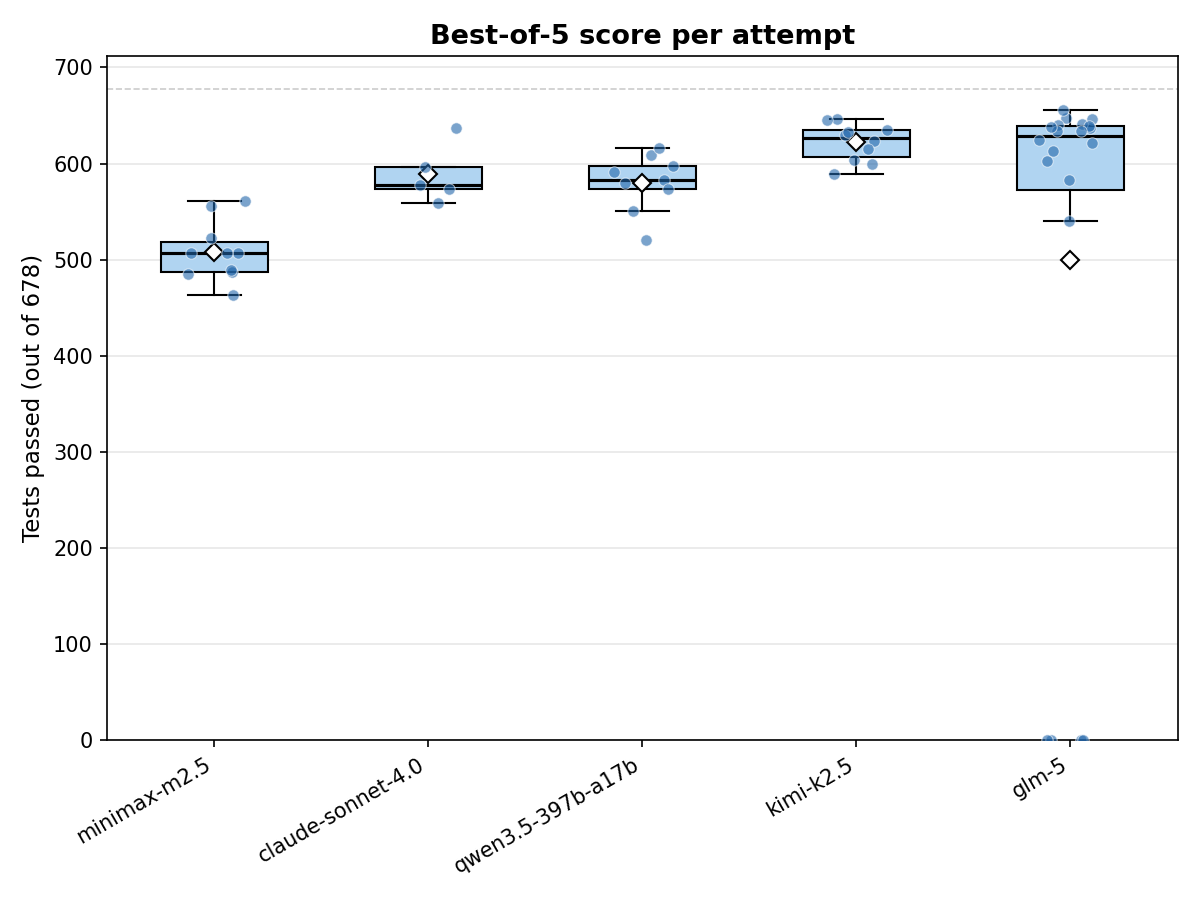
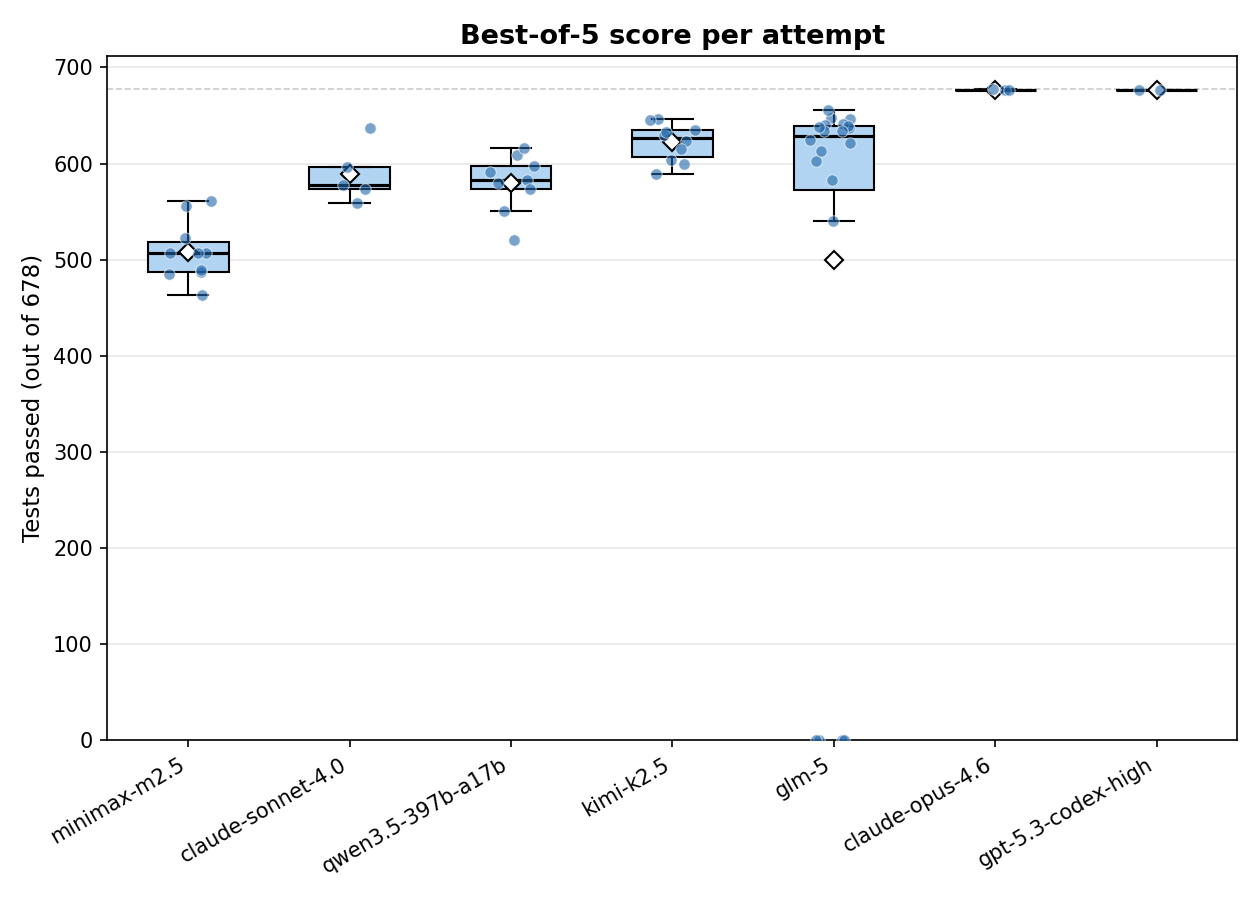
Add new runs: claude-opus-4.6 (1.0), gpt-5.3-codex-high (1.0), minimax-m2.5 (1.1), qwen3.5-122b-a10b (1.1)
First run of update_results.sh after automation — picked up all new
data automatically.

New results:
- claude-opus-4.6 on 1.0-cpp: 3 attempts, best-of-5 avg 676.7/678 (99.8%)
- gpt-5.3-codex-high on 1.0-cpp: 2 attempts, best-of-5 avg 677.0/678 (99.9%)
- minimax-m2.5 on 1.1-cpp: 9 attempts, best-of-5 avg 512.6/680 (75.4%)
- qwen3.5-122b-a10b on 1.1-cpp: 10 attempts, best-of-5 avg 504.7/680 (74.2%)

Added qwen3.5-122b-a10b to plot_comparison.py MODEL_CONFIG (local).

diff --git a/plot_comparison.py b/plot_comparison.py
@@ -26,8 +26,9 @@ MODEL_CONFIG = OrderedDict([
     ("gpt-oss-120b-f16",    "local"),
     ("qwen3.5-397b-a17b",       "local"),
     ("qwen3.5-397b-a17b-iq3_xxs", "local"),
+    ("qwen3.5-122b-a10b",         "local"),
     ("qwen3.5-122b-a10b-q6_k_xl", "local"),
-    ("qwen3.5-122b-q8",         "local"),
+    ("qwen3.5-122b-q8",           "local"),
 ])
 
 CATEGORY_COLORS = {
